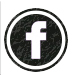
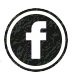
new

Changed region(s): [[0.0, 0.0267, 0.0267, 0.8], [0.0, 0.8267, 0.0267, 1.0]]

diff --git a/main.css b/main.css
@@ -7,6 +7,13 @@ body {
 	font-weight: 100;
 }
 
+ul {
+	list-style: none;
+}
+li {
+	display: inline;
+}
+
 .container {
 	margin: 0 auto;
 	max-width: 940px; 
@@ -46,46 +53,13 @@ body {
 
 /* Nav */
 .nav ul {
-	list-style: none;
 	margin: 0 auto; 
 	padding: 30px 0;
 	text-align: center; 
 }
 
-
-/* Main */
-.main .container {
-	margin: 80px auto;
-}
-
-
-/* Jumbotron */
-.jumbotron {
-	height: 600px; 
-	text-align: right;
-}
-
-.jumbotron .container {
-	position: relative;
-	top: 220px;
-}
-/* Footer */
-.footer { 
-	font-size: 14px;
-}
-
-/* Media Queries */
-@media (max-width: 500px) {
-  .header h1 {
-    font-size: 50px;
-    line-height: 64px;
-  }
-
-  .main, .jumbotron {
-    padding: 0 30px;
-  }
-
-  .main img {
-    width: 100%;
-  }
+.social li, img{
+	display: inline;
+	height: 60px;
+	width: 60px;
 }

diff --git a/index.html b/index.html
@@ -10,6 +10,16 @@
 				<h1>Erik Leon</h1>
 				<img src="https://raw.githubusercontent.com/Noelkire/Noelkire.github.io/master/Me.jpeg" style="width:250px;height:250px;">
 				<p>Don't do me unless I do you</p>
+			</div
+>		<div class="social">
+			<div class="container">
+				<ul>
+					<li><img src="https://raw.githubusercontent.com/Noelkire/Noelkire.github.io/master/fb_icon.jpeg"></li>
+					<li><img src="https://raw.githubusercontent.com/Noelkire/Noelkire.github.io/master/instagram_icon.jpg"></li>
+					<li><img src="https://raw.githubusercontent.com/Noelkire/Noelkire.github.io/master/linkedin_icon.jpg"></li>
+				</ul>
+			</div>
+		</div>		
 			</div>
 		</div>
 		<div class ="nav">
